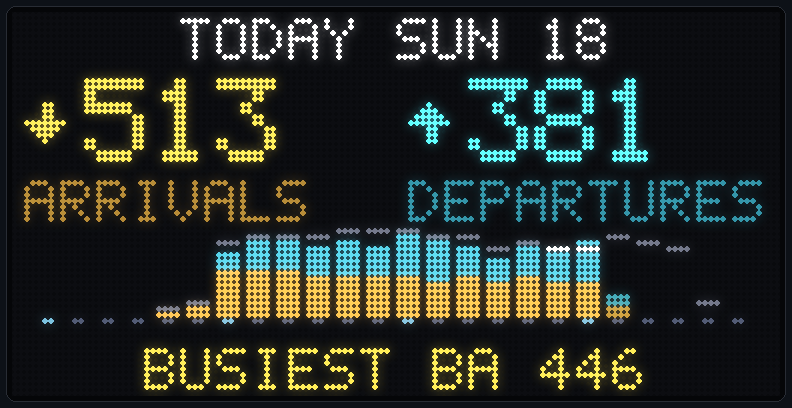
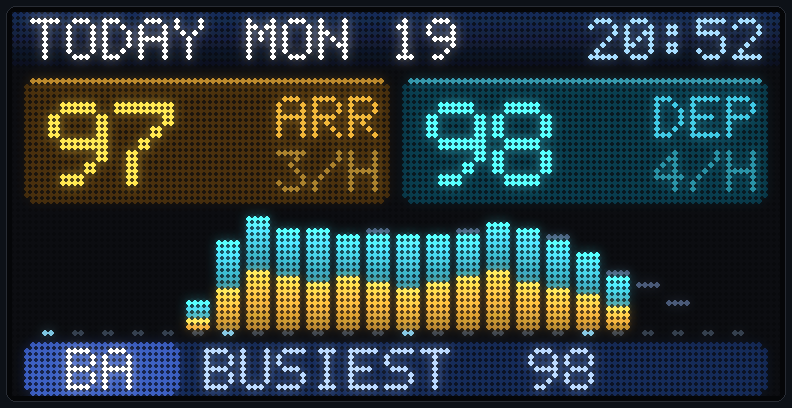
Docs for 5.0: README, changelog, new screen images
New images (globe, overhead, top airlines, types, today's stats,
fireworks) are drawn by the firmware's own code on a desktop with
tools/host_build.py render. The changelog folds the unreleased 4.1 into
5.0 and corrects 4.0.2's entry (adsb.fi became the primary feed).

diff --git a/tools/host_render.cpp b/tools/host_render.cpp
@@ -75,6 +75,18 @@ int main(int argc, char **argv)
     AirportPack::load();   // Heathrow, built in
     FrameCanvas c;
 
+    // The stats as at about 20:00 local, so the clock agrees with a full day of bars.
+#ifdef _WIN32
+    {
+        const time_t now = time(nullptr);
+        struct tm u;
+        gmtime_r(&now, &u);
+        char tz[24];
+        snprintf(tz, sizeof(tz), "TZ=UTC%+d", -((20 - u.tm_hour + 24) % 24));
+        _putenv(tz);
+        tzset();
+    }
+#endif
     static DailyStats stats;
     busyDay(stats);
     InfoScreens::renderStats(c, stats, 1500, 5000);       save(c, "stats_today");
@@ -82,6 +94,10 @@ int main(int argc, char **argv)
     InfoScreens::renderTopTypes(c, stats, 5000);          save(c, "stats_types");
     InfoScreens::renderStats(c, stats, 1500, 300);        save(c, "stats_today_growing");
 
+#ifdef _WIN32
+    _putenv("TZ=UTC0");
+    tzset();
+#endif
     const time_t evening = 1792281600 + 19 * 3600 + 48 * 60;   // 18 Oct 2026, 19:48 UTC
     Globe::Route r;
     r.valid = true;
@@ -141,6 +157,24 @@ int main(int argc, char **argv)
         printf("%s (%u bytes, expected %u)\n", path.c_str(), (unsigned)total, (unsigned)bmp.size());
     }
 #endif
+    // For the README: the fictional GS101 in Glideslope's amber.
+    {
+        Globe::Route g;
+        g.valid = true;
+        strcpy(g.ident, "GS101"); g.accent = Rgb{255, 185, 60};
+        strcpy(g.from, "New York"); strcpy(g.to, "London");
+        g.oLat = 40.64f; g.oLon = -73.78f; g.dLat = 51.47f; g.dLon = -0.45f;
+        g.lat = 51.0f; g.lon = -5.5f; g.speedKts = 300;
+        Globe::render(c, g, 6000, evening);               save(c, "docs_globe");
+#ifdef HAVE_OVERHEAD
+        OverheadScene::Info o;
+        strcpy(o.ident, "GS202"); strcpy(o.type, "A380"); strcpy(o.where, "TO SINGAPORE");
+        o.altFt = 37000; o.kind = AircraftSprites::A380; o.livery = AircraftSprites::Livery(Rgb{255, 185, 60});
+        o.accent = Rgb{255, 185, 60}; o.rightward = true;
+        OverheadScene::render(c, o, 3900, Sky::preview("day"));  save(c, "docs_overhead");
+#endif
+    }
+
     // The landing scene through the year.
     {
         const AircraftSprites::Livery ba(Rgb{28, 48, 110});

diff --git a/README.md b/README.md
@@ -7,7 +7,9 @@
   Live ADS-B on a 128×64 LED panel: each arrival flies in, counts down to the
   runway and lands in the real sky, day or night, rain or shine; departures
   take off; between them, a map, an arrivals board, the weather, today's
-  stats and the holding stacks, with alerts on your phone.<br>
+  stats, the holding stacks and the last flight's route on a globe. Aircraft
+  over your house and the ones on your watchlist cross the sky, with alerts
+  on your phone and sensors in Home Assistant.<br>
   Heathrow out of the box, and around fifty more airports a click away.
 </p>
 
@@ -43,6 +45,18 @@ repository (see [Airline logos](#airline-logos)).
 | --- | --- |
 | ![Holding stacks](docs/holding.png) | ![Squawk alert](docs/squawk.png) |
 
+| Route globe | Overhead |
+| --- | --- |
+| ![The route globe: New York to London, the night side shaded](docs/globe.png) | ![An A380 overhead at 37,000 ft with contrails](docs/overhead.png) |
+
+| Top airlines | Aircraft types |
+| --- | --- |
+| ![Today's busiest airlines in their colours](docs/stats-airlines.png) | ![Today's commonest aircraft types](docs/stats-types.png) |
+
+The globe, overhead, stats pages and the fireworks below are drawn by the
+firmware's own code on a desktop (`tools/host_build.py render`), with a
+made-up day of traffic.
+
 ### The web page
 
 Every board serves a page at `http://glideslope.local/`: a live mirror of the
@@ -59,7 +73,9 @@ phone alerts, system, log), firmware updates and a log.
 ## What it shows
 
 - **Approach card**: airline logo, flight number (BA757A, mapped from the call
-  sign), route cross-fading with the airline name, aircraft type with a
+  sign), route cross-fading with the airline name and how often this
+  airframe has been seen (`SEEN 14 TIMES`, `LAST ON 3 OCT`, `FIRST VISIT`),
+  aircraft type with a
   matching side-profile sprite, smoothly counting altitude and speed,
   `APPROACH 27L` and an ETA countdown, and a progress strip to the threshold
   with approach lights running along it. The border takes the airline's
@@ -84,8 +100,12 @@ phone alerts, system, log), firmware updates and a log.
   7600 (radio failure) or 7500 (hijack) takes over the panel for a few seconds
   with a flashing red alert, and shows red on the map. It must be seen in two
   fetches running, so a single garbled reply doesn't trigger it.
+- **City names** (a switch on the web page): `LONDON > NEW YORK` instead of
+  `LHR > JFK` on the cards, the departures board and the take-off caption,
+  from an offline table of about 8,000 airports. A route too long for the
+  line reads `FROM NEW YORK` when it is landing here, and scrolls otherwise.
 - **The rhythm**: between planes the board rotates through its screens (map,
-  arrivals, stats, weather, holding), each switchable on the web page. A plane's card is the event: an approach flies in
+  arrivals, stats, weather, holding, globe), each switchable on the web page. A plane's card is the event: an approach flies in
   about two minutes before touchdown and stays until it has landed; a
   departure or overflight gets a short card. After every landing comes a
   15-second break showing the next screen in the rotation, so they all come
@@ -106,14 +126,16 @@ phone alerts, system, log), firmware updates and a log.
 - **Rare spots**: an A380, 747, An-124, military traffic or any type not seen
   before gets a gold banner before it flies in (seen types are logged on the
   board).
-- **Today's stats**: big arrival and departure counters, an hourly bar chart
-  of the day's movements, and the busiest airline, rarest type and
-  go-arounds in turn. Every aircraft in range counts (an arrival once it is
+- **Today's stats**: arrival and departure tiles, an hourly bar chart
+  of the day's movements, and the busiest airline (in its colours), rarest
+  type, go-arounds and the day against yesterday in turn, then two more
+  pages: the top airlines as bars in their livery colours and the
+  commonest aircraft types, coloured by family. Every aircraft in range counts (an arrival once it is
   on final, a departure once it climbs out along a runway), not only the
   ones that get a card, and the tally is saved so a restart keeps the day.
   The counters count up and the bars rise as the screen appears; a faint
   line marks yesterday's hour by hour, and the footer says how today
-  compares so far (`VS YESTERDAY +12%`).
+  compares so far (`+12% VS YESTERDAY`).
   It only sees what is in range: centre the search near the airport (or
   make the radius large enough to cover both approaches) to count every
   movement.
@@ -140,10 +162,32 @@ phone alerts, system, log), firmware updates and a log.
   aircraft that keeps circling counts. A holding screen shows each stack
   as a racetrack with its aircraft going round, the count and the longest
   wait.
+- **Route globe**: after a card, the flight's route on a globe turned to face
+  it, from the offline airport table and a world map in 8 KB: solid where it
+  has been and dashed ahead, the aircraft on the line, the night side shaded
+  from the real sun, with the cities, a progress bar, distance flown and
+  the ETA (or when it landed).
+- **Overhead**: an aircraft passing within a set distance of the home marker
+  (2 km by default) crosses the panel under the real sky, big when low,
+  small with contrails at cruising height, with its flight, type, height
+  and where it is going. Only overflights by default: the arrivals and
+  departures here already have their cards.
+- **Watchlist**: registrations, call signs, aircraft types or hex codes
+  (`G-CIVA, B74*, A388, RRR*`; `*` matches the start). One anywhere in range
+  gets the same pass with a gold `WATCHLIST` label, and a phone alert.
 - **Phone alerts** through [ntfy](https://ntfy.sh) (free, no account): emergency
-  squawks, rare spots, go-arounds, runway changes, busy stacks and the
-  evening round-up, each
-  switchable on the web page's Alerts tab.
+  squawks, rare spots, the watchlist, go-arounds, runway changes, busy
+  stacks and the evening round-up, each switchable on the web page's Alerts
+  tab. Emergency, rare-spot and watchlist alerts carry a picture of the
+  panel.
+- **Home Assistant** over MQTT, found by discovery: next arrival and its ETA,
+  runways in use, today's arrivals and departures, aircraft holding, the
+  last flight and the last aircraft overhead.
+- **Through the year**: snow on the skyline's roofs when it is freezing,
+  Christmas lights along them through December, and fireworks over London
+  on Bonfire Night and New Year's Eve.
+
+  ![Fireworks over the London skyline](docs/fireworks.png)
 - **Quiet hours**: a dim clock (with the weather and tonight's moon in its
   real phase) overnight when there's no traffic. Night dimming can follow
   the sun instead of fixed times, easing down through dusk and up at dawn.
@@ -160,8 +204,10 @@ phone alerts, system, log), firmware updates and a log.
   `tools/record_shots.py` cuts the other README images from it.
 - **Web page** on the board: a live mirror of the panel, animation and sky
   previews, a switch for each screen, brightness, night dimming (by the clock
-  or following the sun), location and data source settings, phone alerts,
-  firmware updates over Wi-Fi, a log and a health endpoint.
+  or following the sun), location and data source settings, the spotter
+  (overhead distance, watchlist), phone alerts, Home Assistant, firmware
+  updates over Wi-Fi, a log and a health endpoint. Anything that changes the
+  board needs a code the panel shows you once.
 
 Twenty aircraft sprites are chosen by ICAO type code (A320, A321, 737, A220,
 E-Jet, CRJ, 757, 767, 787, A330, A350, 777, A340, 747, A380, ATR, Q400,
@@ -367,13 +413,19 @@ Aircraft positions, first to answer wins:
   METAR, every 10 minutes.
 - FlightAware AeroAPI, optional and paid.
 - [ntfy.sh](https://ntfy.sh/) for phone alerts, if a topic is set.
+- Built into the firmware: the airport table for city names and the globe
+  from [OurAirports](https://ourairports.com/data/) (public domain,
+  `tools/gen_airports.py`), and the globe's land from
+  [Natural Earth](https://www.naturalearthdata.com/) 1:110m (public domain,
+  `tools/gen_landmask.py`).
 
 ## Credits and licence
 
 Glideslope builds on
 [TheFlightWall_OSS](https://github.com/AxisNimble/TheFlightWall_OSS) and the
 forks by biohead and [peterdaley](https://github.com/peterdaley/TheFlightWall_OSS),
-and uses [ESP32-HUB75-MatrixPanel-DMA](https://github.com/mrcodetastic/ESP32-HUB75-MatrixPanel-DMA).
+and uses [ESP32-HUB75-MatrixPanel-DMA](https://github.com/mrcodetastic/ESP32-HUB75-MatrixPanel-DMA)
+and [PubSubClient](https://github.com/knolleary/pubsubclient) (Home Assistant).
 See [NOTICE](NOTICE) for what changed.
 
 Not affiliated with or endorsed by TheFlightWall or any airline.

diff --git a/CHANGELOG.md b/CHANGELOG.md
@@ -7,33 +7,76 @@ web page (`firmware.bin`) keep your settings. Release files are on the
 There is no 3.0: the features planned for it (living sky, holding stacks,
 phone alerts) were finished alongside 4.0's and shipped together as 4.0.0.
 
-## 4.1.0 (in progress)
+## 5.0.0 (in progress)
 
-Hardening: no new screens.
+The spotter's release. It includes the hardening planned as 4.1, which was
+never released on its own.
 
+**New**
+- **City names** on routes (a switch on the web page): `LONDON > NEW YORK`
+  on the cards, the departures board and the take-off caption, from an
+  offline table of about 8,000 airports (OurAirports). Long routes read
+  `FROM NEW YORK` when landing here, or scroll.
+- **Route globe**: a new screen with the last flight's route on a globe,
+  solid where it has been and dashed ahead, the night side shaded from the
+  real sun, with distance flown and the ETA. It follows the landing in the
+  showcase.
+- **Stats**: today's page redesigned (tiles, shaded bars, the footer in the
+  busiest airline's colours), then the top airlines and aircraft types.
+- **Overhead**: an aircraft within a set distance of the home marker
+  (2 km by default; overflights only unless switched) crosses the panel at
+  a size set by its height, with contrails at cruising height.
+- **Watchlist**: registrations, call signs, types or hex codes (`*` for a
+  prefix) anywhere in range get the same pass with a `WATCHLIST` label, and
+  a phone alert.
+- **Registration history**: each card says how often the airframe has been
+  seen and when last (`SEEN 14 TIMES`, `LAST ON 3 OCT`, `FIRST VISIT`),
+  kept in a 16 KB table in flash.
+- **Alerts with a picture**: emergency, rare-spot and watchlist alerts
+  attach the panel as it is when they go out.
+- **Home Assistant** over MQTT with discovery: next arrival and ETA,
+  runways in use, today's movements, aircraft holding, the last flight and
+  the last aircraft overhead.
+- **Through the year**: snow on the roofs when freezing, Christmas lights
+  in December, fireworks on Bonfire Night and New Year's Eve.
+
+**Hardening**
 - **Web page code.** Requests must name the board (its address,
   `glideslope.local` or the setup hotspot), POSTs must come from the
   board's own page, and anything that changes the board (firmware, airport
   pack, settings, restart, Wi-Fi reset) needs a per-board code. The page
   asks for it once; a button shows it on the panel for 30 seconds.
+- **Signed releases.** Release firmware is signed in CI; the board checks
+  the signature, and your own unsigned builds install after a warning.
 - **Rollback.** A new firmware image is on trial until it has fetched
   positions (or run for five minutes); if it crashes before then, the
   board goes back to the previous image by itself.
+- **More memory.** The frame a transition starts from is kept at 12 bits a
+  pixel: 4 KB more free with the feed's connection open.
 - Settings changes are published in one step, so the main loop never sees
   half an update.
 - Unit tests (approach model, runway and holding trackers, METAR and feed
-  parsers, airport packs) and a replay of a recorded hour at Heathrow run
-  on every push, with a static RAM budget.
+  parsers, airport packs, airport table, spotter, registration history) and
+  a replay of a recorded hour at Heathrow run on every push, with a static
+  RAM budget. `tools/host_build.py` runs them, and renders screens to
+  images, on a desktop without a toolchain.
 - This changelog.
 
 ## 4.0.2 (18 Oct 2026)
 
-- **Positions over HTTPS.** adsb.lol stopped answering plain HTTP, and the
-  board fell back to adsb.fi and OpenSky with very little memory to spare.
-  adsb.lol now uses one HTTPS connection kept open between fetches, with
-  the reply read one aircraft at a time.
-- **Fix:** an out-of-memory crash in the OpenSky fallback (it added to the
-  previous fetch's list instead of replacing it).
+The open ADS-B feeds changed under the board this month, and 4.0.0 and
+4.0.1 crashed on the fallbacks they were pushed onto.
+
+- **adsb.fi is now the primary feed.** adsb.lol stopped answering plain
+  HTTP, then started allowing 500 requests a day per address. adsb.fi is
+  fetched over one HTTPS connection kept open between fetches, with each
+  reply read one aircraft at a time; adsb.lol is the backup.
+- **Fix:** out-of-memory crashes in the fallbacks. OpenSky added to the
+  previous fetch's list instead of replacing it, held its whole reply
+  twice, and its chunked replies weren't decoded. The aircraft lists are
+  now capped and reserved up front, after checking there is room.
+- **Fix:** out-of-memory crashes saving the stats and reserving the
+  aircraft list with the feed connection open.
 - **Night sky:** a London skyglow and dithering instead of two flat bands;
   buildings darker than the glow with a moonlit edge.
 
